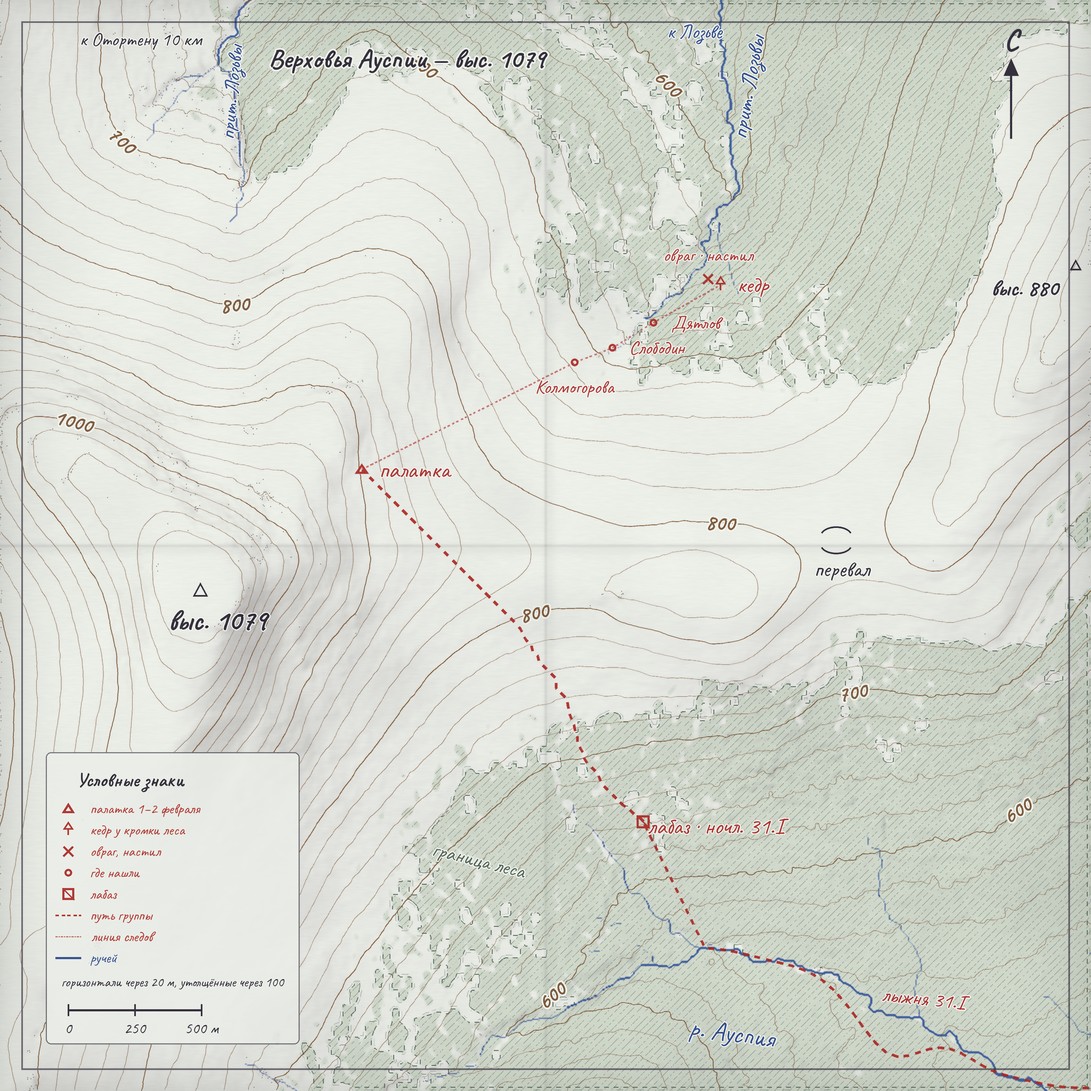
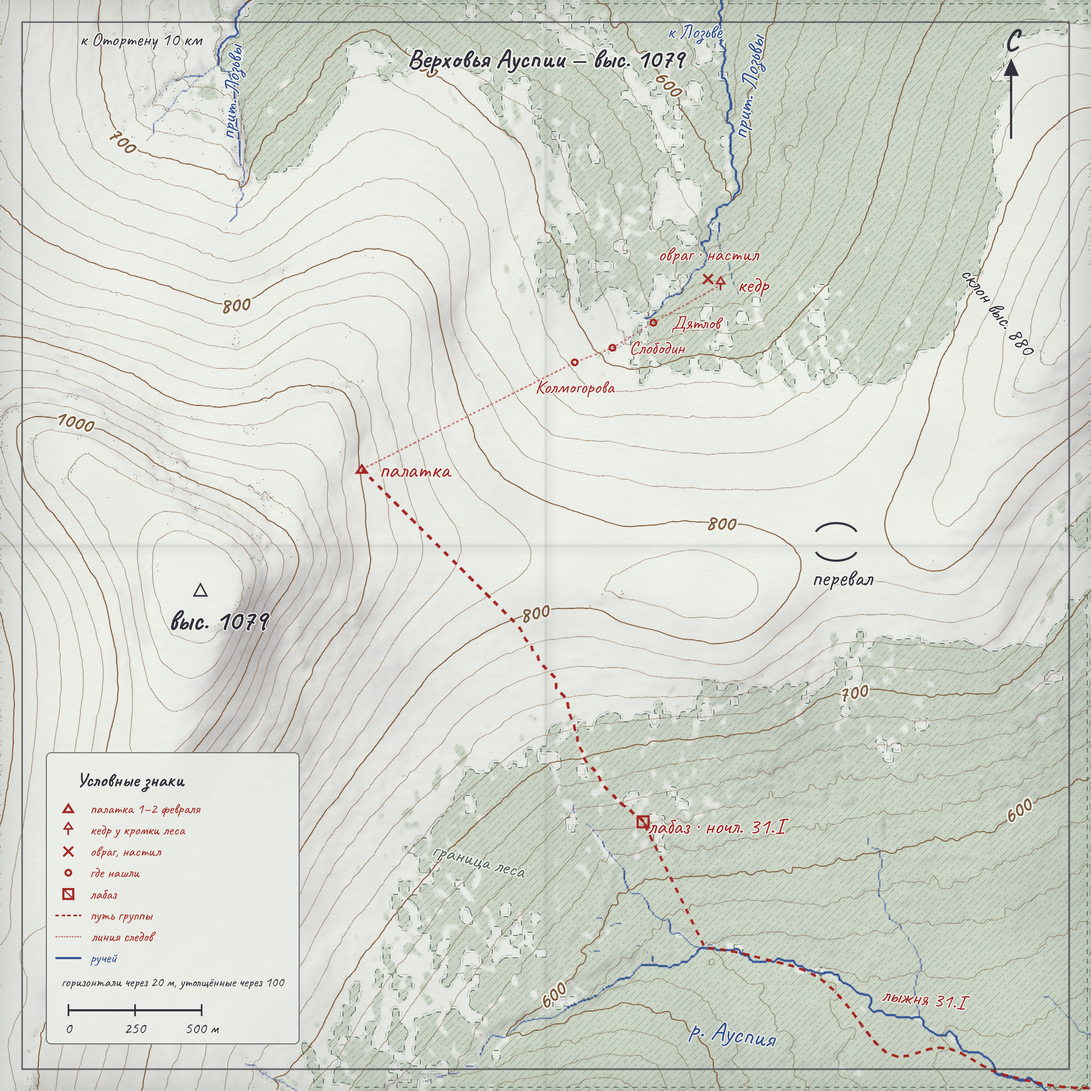
Pass map, second pass: read it at the size it is actually read at
Looking at the sheet in the built game rather than at the PNG changed what needed fixing. The folded
sheet is drawn at 820 px and the mini-map is a 218 px circle over 700 m of ground, so everything was
being judged at 40 % and 62 % of the size it was drawn at, in a dark room.

  - The three on the slope were 36 pt, which is fourteen screen pixels in a 1280-wide window: legible
    if you look for them, not at a glance. 42 pt now, and the ravine's name with them.
  - More ink throughout — contours, pencil shading, forest, streams, the red. Pale lines on pale paper
    hold up on the folded sheet and fall apart in the mini-map circle long before that.
  - The hatching went the wrong way first. Coarsening it to survive the shrink turned it into scratches
    at mini-map scale; what works is the opposite — keep the fine pitch, lighten it, and let the green
    wash carry "this is wood" on its own.
  - The pass symbol was two thin arcs that vanished at playing size. Bigger and heavier.
  - «выс. 880» had a summit triangle drawn at the eastern edge, where the DEM is still climbing through
    893 m when the sheet runs out. The summit is off the sheet; what is on it is the hillside where the
    floor of branches was found, so the sheet says «склон выс. 880» and draws no summit.
  - The heading was hung by its left edge and finished on the centre line instead of straddling it.

HudController: the mini-map arrow was a 30 px triangle over a drawn sheet, and it covered the name of
[…]

diff --git a/Tools/terrain/map.py b/Tools/terrain/map.py
@@ -125,10 +125,10 @@ def wash(mask, color, alpha=1.0):
 # The tree line is the one thing on this map that decides the night: below it there is firewood and shelter,
 # above it there is nothing. On the old sheet it was a flat green; the hatching is the copier's own hand.
 wood = np.clip((forest - .30) / .28, 0, 1)
-wash(wood, (150, 172, 140), .30)
+wash(wood, (146, 169, 136), .34)
 hatch = ((xx + yy) % 14 < 1.6) & (wood > .45)
 hatch = hatch & (nd.gaussian_filter(rng.random((S, S)), 1.2) > .47)
-wash(hatch.astype(float) * .55, (86, 104, 92), .70)
+wash(hatch.astype(float) * .55, (80, 99, 87), .58)
 # the edge of the wood, scalloped: a double dotted rule, the way a лесхоз sheet closes a stand
 solid = wood > .45
 solid = nd.binary_closing(solid, nd.generate_binary_structure(2, 2), iterations=6)
@@ -171,8 +171,8 @@ sun = sun / np.linalg.norm(sun)
 nrm = np.stack([-gx, -gz, np.ones_like(gx)], -1)
 nrm /= np.linalg.norm(nrm, axis=-1, keepdims=True)
 lit = np.clip((nrm @ sun), 0, 1)
-wash(nd.gaussian_filter(np.clip((.66 - lit) * 1.7, 0, 1) * np.clip((slope - 3) / 18, 0, 1), 3), (116, 110, 118), .30)
-wash(nd.gaussian_filter(np.clip((slope - 20) / 16, 0, 1), 2), (104, 96, 94), .16)
+wash(nd.gaussian_filter(np.clip((.66 - lit) * 1.7, 0, 1) * np.clip((slope - 3) / 18, 0, 1), 3), (112, 106, 116), .35)
+wash(nd.gaussian_filter(np.clip((slope - 20) / 16, 0, 1), 2), (100, 92, 92), .19)
 
 # ── streams: blue ink along the drainage, width by catchment ─────────────────────────────────────────────
 lw = np.zeros((S, S))
@@ -181,14 +181,14 @@ for lo, rad in [(.37, 0), (.63, 1), (.89, 2)]:
     if rad:
         b = nd.binary_dilation(b, iterations=rad)
     lw = np.maximum(lw, b.astype(float))
-wash(np.clip(nd.gaussian_filter(lw, .9) * 1.8, 0, 1), (44, 78, 150), .85)
+wash(np.clip(nd.gaussian_filter(lw, .9) * 1.8, 0, 1), (40, 72, 146), .90)
 
 base = Image.fromarray((np.clip(img, 0, 1) * 255).astype(np.uint8)).convert('RGBA')
 
 # ── ink layer, drawn at 2× ───────────────────────────────────────────────────────────────────────────────
 INK = (38, 34, 48, 235)
 BROWN = (122, 84, 52, 235)
-RED = (170, 38, 34, 230)
+RED = (162, 32, 28, 242)
 BLUE = (40, 70, 140, 235)
 PAPER = (236, 238, 232, 255)
 
@@ -249,8 +249,8 @@ def contours(level):
 NUMBERED = {}
 for lvl in range(500, 1101, 20):
     index = lvl % 100 == 0
-    width = int((1.9 if index else 1.0) * F)
-    colour = (BROWN[0], BROWN[1], BROWN[2], 245 if index else 175)
+    width = int((2.0 if index else 1.05) * F)
+    colour = (BROWN[0], BROWN[1], BROWN[2], 250 if index else 198)
     for poly in contours(float(lvl)):
         dr.line([(x * F, y * F) for x, y in wobble(poly, .9 if index else .7)], fill=colour, width=width, joint='curve')
         if index and len(poly) > 400:
@@ -349,7 +349,7 @@ PLACES = [
     ('slob',   ll2xz(61.76266, 59.44727),                     'Слободин',       36, 'dot'),
     ('dyat',   ll2xz(61.76351, 59.45018),                     'Дятлов',         36, 'dot'),
     ('cedar',  ll2xz(dms(61, 45, 53.20), dms(59, 27, 17.80)), 'кедр',           42, 'tree'),
-    ('ravine', ll2xz(dms(61, 45, 53.93), dms(59, 27, 14.64)), 'овраг · настил', 34, 'cross'),
+    ('ravine', ll2xz(dms(61, 45, 53.93), dms(59, 27, 14.64)), 'овраг · настил', 38, 'cross'),
 ]
 
 
@@ -418,14 +418,12 @@ sx, sy = P(61.754457, 59.417964, F)
 dr.polygon([(sx, sy - 16 * F), (sx - 14 * F, sy + 10 * F), (sx + 14 * F, sy + 10 * F)], outline=INK, width=3 * F)
 label('выс. 1079', (cx(-1296) + 32, cy(-172) + 54), 54, bold=True, halo=2)
 
-hx, hy = pt(1990, 1050, F)
-dr.polygon([(hx, hy - 12 * F), (hx - 11 * F, hy + 8 * F), (hx + 11 * F, hy + 8 * F)], outline=INK, width=3 * F)
-label('выс. 880', (cx(1990) - 96, cy(1050) + 42), 42, bold=True, halo=2)
+label('склон выс. 880', pt(1700, 880), 40, INK, angle=-52, halo=2)
 
 px_, py_ = P(61.756323, 59.463175, F)
-dr.arc([px_ - 30 * F, py_ - 18 * F, px_ + 30 * F, py_ + 18 * F], 200, 340, fill=INK, width=3 * F)
-dr.arc([px_ - 30 * F, py_ - 2 * F, px_ + 30 * F, py_ + 34 * F], 20, 160, fill=INK, width=3 * F)
-label('перевал', (cx(1092) + 10, cy(36) + 62), 42, halo=2)
+dr.arc([px_ - 42 * F, py_ - 26 * F, px_ + 42 * F, py_ + 26 * F], 200, 340, fill=INK, width=4 * F)
+dr.arc([px_ - 42 * F, py_ - 4 * F, px_ + 42 * F, py_ + 48 * F], 20, 160, fill=INK, width=4 * F)
+label('перевал', (cx(1092) + 10, cy(36) + 78), 46, halo=2)
 
 label('р. Ауспия', pt(700, -1830), 50, BLUE, angle=-8, halo=2)
 label('прит. Лозьвы', pt(760, 1720), 44, BLUE, angle=80, halo=2)
@@ -448,7 +446,7 @@ dr.line([(nx, ny + 90 * F), (nx, ny - 40 * F)], fill=INK, width=4 * F)
 dr.polygon([(nx, ny - 60 * F), (nx - 14 * F, ny - 28 * F), (nx + 14 * F, ny - 28 * F)], fill=INK)
 label('С', (S - 150, 170 - 95), 56, bold=True)
 
-label('Верховья Ауспии — выс. 1079', (S / 2 - 260, 110), 50, INK, bold=True, halo=3)
+label('Верховья Ауспии — выс. 1079', (S / 2, 110), 50, INK, bold=True, halo=3)
 
 # The key: once the sheet carries named places it is no longer a bare tracing, and the red marks have to say
 # what they mean. It sits in the south-west corner, which is empty slope, with the contour note — moved in from

diff --git a/Assets/Scripts/Runtime/HudController.cs b/Assets/Scripts/Runtime/HudController.cs
@@ -338,10 +338,18 @@ namespace Height1079.Runtime
             miniMap = Rect("Map", maskRt, Vector2.zero, Vector2.one, Vector2.zero, Vector2.zero);
             miniImage = miniMap.gameObject.AddComponent<RawImage>();
             // texture and scale come from ApplyPlace at the end of the method
-            miniArrow = Rect("You", miniRoot, new Vector2(.5f, .5f), new Vector2(.5f, .5f), Vector2.zero, new Vector2(30, 30));
+            // The arrow sits on a drawn sheet, not on a dark game map: at 30 px it covered the name of
+            // whatever the player was standing next to. Smaller, on a pale backing of its own shape, so it
+            // separates from the paper without swallowing what is printed under it.
+            miniArrow = Rect("You", miniRoot, new Vector2(.5f, .5f), new Vector2(.5f, .5f), Vector2.zero, new Vector2(24, 24));
             miniArrow.pivot = new Vector2(.5f, .5f);
-            var arrow = miniArrow.gameObject.AddComponent<Image>();
-            arrow.sprite = Triangle(); arrow.color = new Color(.65f, .1f, .08f); arrow.raycastTarget = false;
+            var arrowBack = Rect("Halo", miniArrow, new Vector2(.5f, .5f), new Vector2(.5f, .5f), Vector2.zero, new Vector2(31, 31));
+            arrowBack.pivot = new Vector2(.5f, .5f);
+            var halo = arrowBack.gameObject.AddComponent<Image>();
+            halo.sprite = Triangle(); halo.color = new Color(.96f, .95f, .90f, .85f); halo.raycastTarget = false;
+            var arrowRt = Rect("Mark", miniArrow, Vector2.zero, Vector2.one, Vector2.zero, Vector2.zero);
+            var arrow = arrowRt.gameObject.AddComponent<Image>();
+            arrow.sprite = Triangle(); arrow.color = new Color(.62f, .09f, .07f); arrow.raycastTarget = false;
             var n = Label("N", miniRoot, new Vector2(0, -2), new Vector2(40, 30), 24, new Color(.93f, .9f, .82f), TextAnchor.MiddleCenter, FontStyle.Bold, new Vector2(.5f, 1f));
             n.rectTransform.pivot = new Vector2(.5f, 1f); n.font = Hand; n.text = "С";
             miniScale = Label("Scale", miniRoot, new Vector2(0, -8), new Vector2(200, 20), 12, new Color(.75f, .8f, .82f), TextAnchor.UpperCenter, FontStyle.Normal, new Vector2(.5f, 0f));

diff --git a/Assets/Scripts/Editor/World/WorldImporter.cs b/Assets/Scripts/Editor/World/WorldImporter.cs
@@ -23,7 +23,7 @@ namespace Height1079.EditorTools.World
         public static void RebuildMenu() => Build(true);
 
         /// <summary>Bump when a factory changes so existing checkouts rebuild the generated world on next open/check.</summary>
-        public const int PipelineVersion = 53;
+        public const int PipelineVersion = 54;
         const string Stamp = WorldPaths.Generated + "/pipeline.version";
 
         public static bool IsBuilt => File.Exists(TerrainAsset) && File.Exists(HeightResource) && File.Exists(Stamp)
